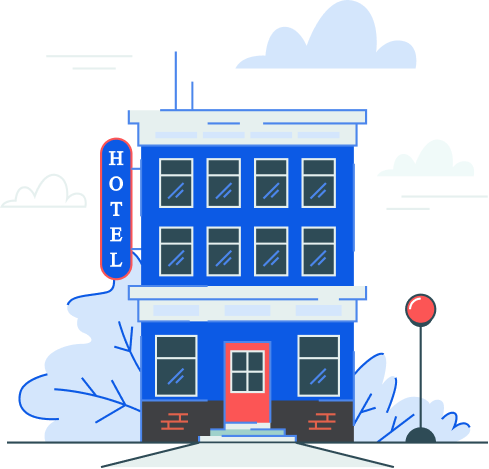
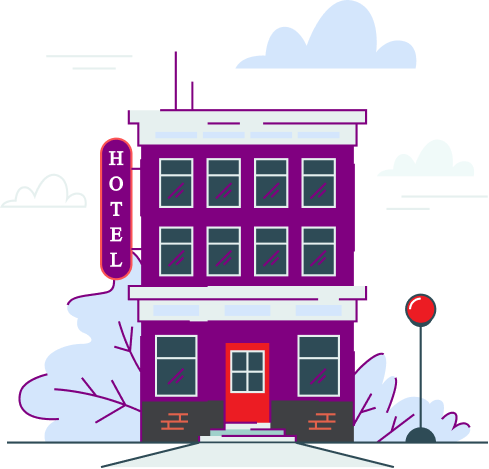
added personal detail form

diff --git a/frontend/src/components/Stepper.jsx b/frontend/src/components/Stepper.jsx
@@ -1,0 +1,95 @@
+import React from 'react'
+const Stepper = () => {
+  return (
+    <>
+    <div className='flex justify-center md:justify-normal gap-0 md:gap-6'>
+    <ol className="hidden md:flex md:flex-col md:justify-around ">                  
+    <li className="  ">            
+      <div className='flex h-auto gap-6 '>
+      <span className="text-[#464646] leading-[22px] font-semibold text-[13px] w-[218px] text-center
+      h-fit py-3 px-10 rounded-lg border border-[#800080]">
+        Personal Details</span>
+      </div>
+    </li>
+    <li className="  ">            
+      <div className='flex h-auto gap-6'>
+      <span className="text-[#464646] leading-[22px] font-semibold text-[13px] w-[218px] text-center
+      h-fit py-3 px-10 rounded-lg border border-[#800080]">
+        Property One</span>
+      </div>
+    </li>
+    <li className="  ">            
+      <div className='flex h-auto gap-6'>
+      <span className="text-[#464646] leading-[22px] font-semibold text-[13px] w-[218px] text-center
+      h-fit py-3 px-10 rounded-lg border border-[#800080]">
+        Property Two</span>
+      </div>
+    </li>
+    <li className="  ">            
+      <div className='flex h-auto gap-6'>
+      <span className="text-[#464646] leading-[22px] font-semibold text-[13px] w-[218px] text-center
+      h-fit py-3 px-10 rounded-lg border border-[#800080]">
+        Property Three</span>
+      </div>
+    </li>
+    <li className="  ">            
+      <div className='flex h-auto gap-6'>
+      <span className="text-[#464646] leading-[22px] font-semibold text-[13px] w-[218px] text-center
+      h-fit py-3 px-10 rounded-lg border border-[#800080]">
+        Property Four</span>
+      </div>
+    </li>
+</ol>
+
+<ol className=" text-gray-500">                  
+    <li className="  ">            
+      <div className='flex h-auto gap-6'>
+        <div className=' flex flex-col items-center justify-center mt-12'>
+        <span className='rounded-full bg-[#800080] py-[0.15rem] px-[0.30rem] text-white text-[11px]'>01</span>
+        <div class=" h-[70px] w-1 bg-[#800080] opacity-100 dark:opacity-50"></div>
+        </div>
+      
+      </div>
+    </li>
+  
+    <li className="  ">            
+      <div className='flex h-auto gap-6'>
+        <div className=' flex flex-col items-center justify-center'>
+        <span className='rounded-full bg-[#800080] py-[0.15rem] px-[0.30rem] text-white text-[11px]'>02</span>
+        <div class=" h-[70px] w-1 bg-[#800080] opacity-100 dark:opacity-50"></div>
+        </div>
+      </div>
+    </li>
+    <li className="  ">            
+      <div className='flex h-auto gap-6'>
+        <div className=' flex flex-col items-center justify-center'>
+        <span className='rounded-full bg-[#800080] py-[0.15rem] px-[0.30rem] text-white text-[11px]'>03</span>
+        <div class=" h-[70px] w-1 bg-[#800080] opacity-100 dark:opacity-50"></div>
+        </div>
+      </div>
+    </li>
+    <li className="  ">            
+      <div className='flex h-auto gap-6'>
+        <div className=' flex flex-col items-center justify-center'>
+        <span className='rounded-full bg-[#800080] py-[0.15rem] px-[0.30rem] text-white text-[11px]'>04</span>
+        <div class=" h-[70px] w-1 bg-[#800080] opacity-100 dark:opacity-50"></div>
+        </div>
+      </div>
+    </li>
+    <li className="  ">            
+      <div className='flex h-auto gap-6'>
+        <div className=' flex flex-col items-center justify-center'>
+        <span className='rounded-full bg-[#800080] py-[0.15rem] px-[0.30rem] text-white text-[11px]'>05</span>
+        <div class=" h-[70px] w-1 bg-[#800080] opacity-100 dark:opacity-50"></div>
+        </div>
+      </div>
+    </li>
+</ol>
+    </div>
+
+
+    </>
+  )
+}
+
+export default Stepper

diff --git a/frontend/src/components/PersonalDetailsForm.jsx b/frontend/src/components/PersonalDetailsForm.jsx
@@ -1,0 +1,80 @@
+import React from 'react'
+import ReCAPTCHA from 'react-google-recaptcha'
+
+const PersonalDetailsForm = () => {
+  
+  return (
+    <>
+    <div className='flex flex-col px-6'>
+   
+  
+   <form className="rounded-md px-2 md:px-6 py-6 shadow-xl">
+   <div className='px-6 text-center'>
+    <h1 className='text-[15px] font-normal text-[#464646]'>Personal</h1>
+   <h1 className='text-[30px] font-semibold text-[#464646]'>Details</h1>
+    </div>
+        <div className="flex flex-col mb-6">
+          <div className="w-full mb-6 md:mb-0 px-2 md:mt-6">
+            <label className="block tracking-wide text-[#464646]
+            text-[16px] font-normal mb-2" htmlFor="grid-first-name">
+              Name*
+            </label>
+            <input className="appearance-none block w-full border-2 border-[#DDDDDD]
+            focus:shadow-lg focus:shadow-[#800080]-500/50 focus:outline-none focus:border-2 focus:border-[#800080]
+             rounded-md h-[42px] px-4 mb-3 leading-tight " required
+              id="grid-first-name" type="text" placeholder="" 
+              value={name} onChange={(e)=> setName(e.target.value)} />
+          </div>
+
+          <div class="grid grid-cols-4 md:mb-3 md:mt-3">
+          <div className="col-span-4 md:col-span-2 mb-6 md:mb-0 px-2">
+            <label className="block tracking-wide text-[#464646] 
+            text-[16px] font-normal mb-2" htmlFor="grid-first-name">
+              Mobile Number*
+            </label>
+            <input className="appearance-none block  border-2 border-[#DDDDDD]
+            focus:shadow-lg focus:shadow-[#800080]-500/50 focus:border-2 focus:border-[#800080]
+             w-full h-[42px]
+             rounded-md  px-4 mb-3 leading-tight focus:outline-none"
+              id="grid-first-name" type="text" placeholder="" 
+              value={name} onChange={(e)=> setName(e.target.value)} />
+          </div>
+          <div className="col-span-4 md:col-span-2 mb-6 md:mb-0 px-2">
+           
+<label className="block tracking-wide text-[#464646]
+            text-[16px] font-normal mb-2" htmlFor='states'>
+              State*
+            </label>
+
+<select id="states" class="bg-gray-50  block 
+border-2 border-[#DDDDDD] rounded-md focus:outline-none 
+focus:shadow-lg focus:shadow-[#800080]-500/50 focus:border-2 focus:border-[#800080]
+  w-full px-2.5 h-[42px]">
+  <option selected>Choose a state</option>
+  <option value="US">United States</option>
+  <option value="CA">Canada</option>
+  <option value="FR">France</option>
+  <option value="DE">Germany</option>
+</select>
+
+
+          </div>
+          </div>
+
+        
+        </div>
+        <div className='flex flex-col items-center'>
+
+        <ReCAPTCHA  sitekey={process.env.REACT_APP_RECAPTCHA_SITE_KEY}/>
+        <button className='font-normal  bg-[#800080] text-[white] rounded-md w-full py-3 px-6 my-6 '>Save & Next Step</button>
+        <span className='text-[#B3B3B3] text-[12px] font-normal text-center'>Already have an account? <span className='text-[#5E5E5E]'> Sign in</span></span>
+        </div>
+           
+   </form>
+   </div>
+   
+    </>
+  )
+}
+
+export default PersonalDetailsForm

diff --git a/frontend/src/pages/RegistrationForm.jsx b/frontend/src/pages/RegistrationForm.jsx
@@ -1,45 +1,56 @@
+// import React from 'react'
+// import Stepper from '../components/Stepper';
+// import Navbar from '../components/Navbar';
+// import PersonalDetailsForm from '../components/PersonalDetailsForm';
+// const RegistrationForm = () => {
+//    // const steps = ['Customer Registration', 'Property Registration'];
+//   return (
+//     <>
+//     <Navbar/>
+
+    
+//     <div className="grid grid-cols-4">
+//         <div className="col-span-1  ">
+//             <Stepper/>
+//         </div>
+//         <div className="col-span-3">
+//           <PersonalDetailsForm/>
+//         </div>
+//       </div>
+//     </>
+//   )
+// }
+
+// export default RegistrationForm
+
 import React from 'react'
-import registrationformgraphics from '../assets/RegistrationFormGraphics.png'
-import CustomerRegistrationForm from '../components/CustomerRegistrationForm';
+import Stepper from '../components/Stepper';
+import Navbar from '../components/Navbar';
+import PersonalDetailsForm from '../components/PersonalDetailsForm';
 const RegistrationForm = () => {
-    const steps = ['Customer Registration', 'Property Registration'];
+   // const steps = ['Customer Registration', 'Property Registration'];
   return (
     <>
-    <div className="grid lg:grid-cols-4 md:grid-cols-4 sm:grid-cols-1 h-screen">
-        <div className="grid lg:col-span-2 md:col-span-2">
-            <div className='flex justify-center items-center'>
-            <img src={registrationformgraphics}/>
-            </div>
+    <Navbar/>
+
+    <div className="grid grid-cols-4 md:grid-cols-12">
+    <div className="md:col-span-1"></div>
+    <div className="col-span-4 md:col-span-10">
+    <div className="grid grid-cols-4">
+        <div className="col-span-1  ">
+            <Stepper/>
         </div>
-        <div className="grid lg:col-span-2 md:col-span-2 bg-[#800080]">
-        <ol className="flex items-center w-full  space-x-2 text-sm font-medium text-center p-6
-            text-gray-500 shadow-sm 
-   dark:text-gray-400 sm:text-base dark:bg-gray-800 sm:p-4 sm:space-x-4">
-   {
-    steps.map(((step,index) => (
-        <li className="flex items-baseline p-6" key={step}>
-        <span className="flex  justify-center py-[0.5rem] px-[0.8rem] text-xs bg-white rounded-md shrink-0
-         dark:border-blue-500">
-            {index + 1}
-        </span>
-        <span className="hidden sm:inline-flex sm:ml-2 text-[#FFFFFF] text-sm font-semibold" 
-         >{step}</span>
-       
-    </li>
-    )))
-   }
-</ol>
-
-<div className='flex flex-col   '>
-<CustomerRegistrationForm/>
-  
-   
-
-</div>
-
-
+        <div className="col-span-3">
+        <div className="col-span-3 md:grid md:grid-cols-8">
+        <div className="md:col-span-1"></div>
+        <div className="col-span-3 md:col-span-6"> <PersonalDetailsForm/></div>
+        <div className="md:col-span-1"></div>
+        </div>
         </div>
       </div>
+    </div>
+    <div className="md:col-span-1"></div>
+    </div>
     </>
   )
 }

diff --git a/frontend/src/components/Navbar.jsx b/frontend/src/components/Navbar.jsx
@@ -1,0 +1,9 @@
+import React from 'react'
+
+const Navbar = () => {
+  return (
+    <div>Navbar</div>
+  )
+}
+
+export default Navbar
